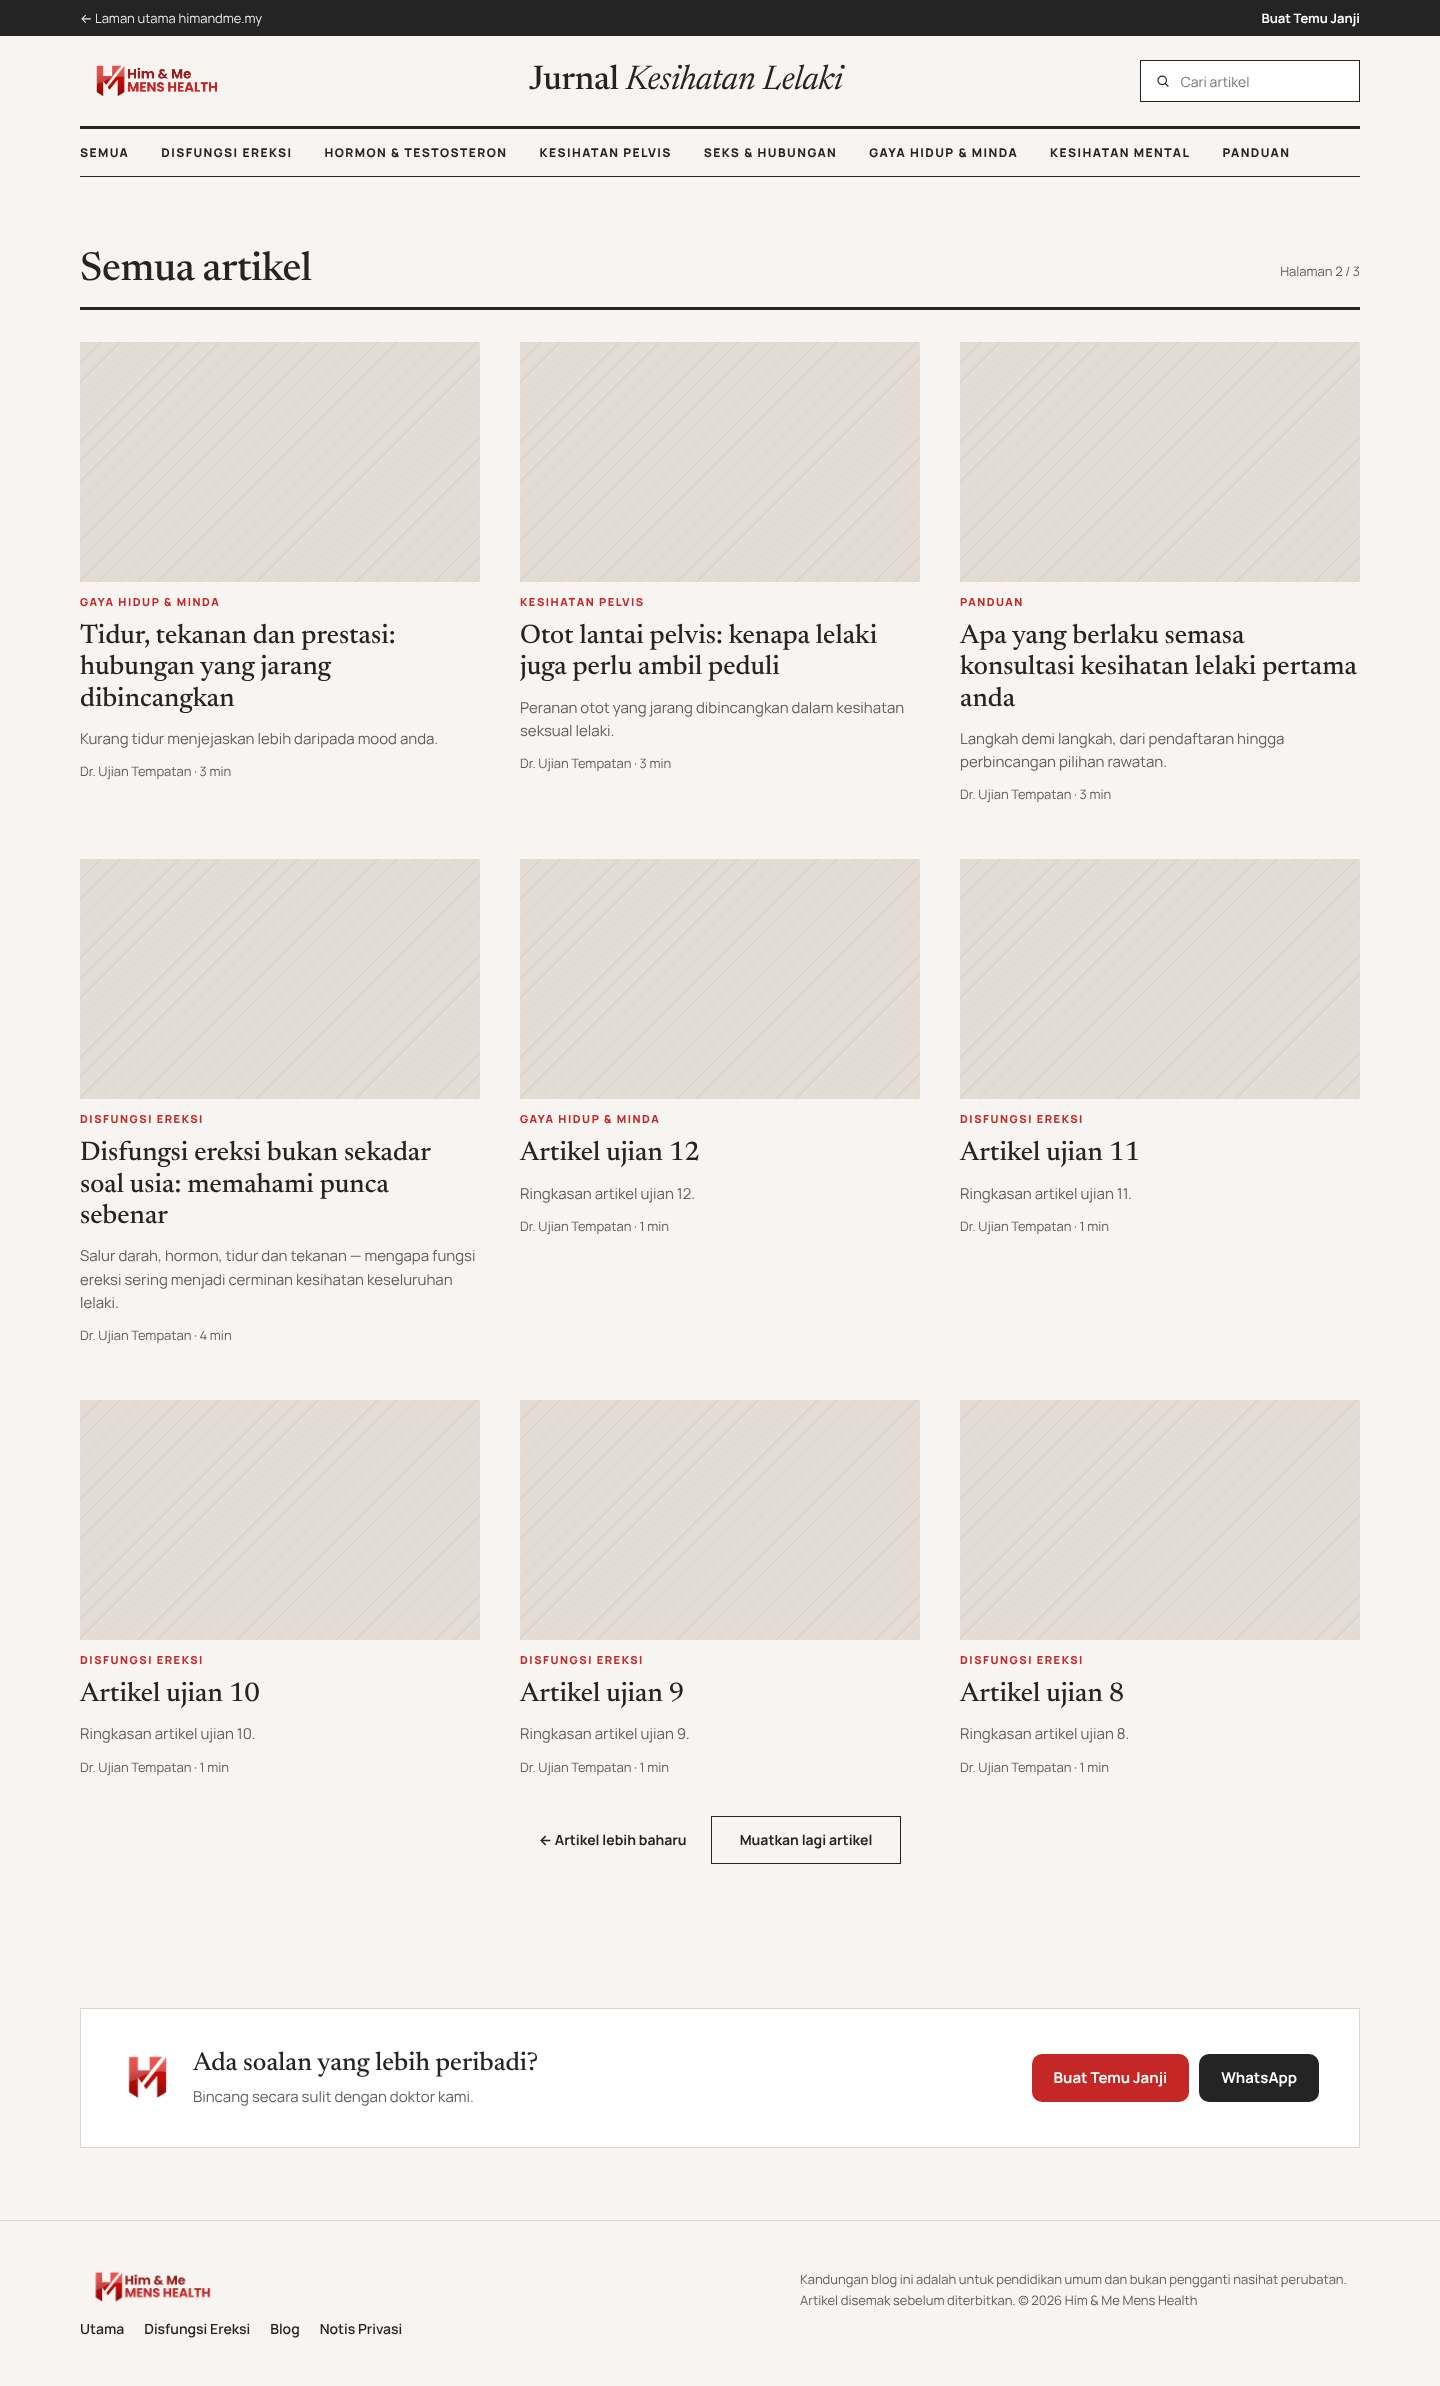
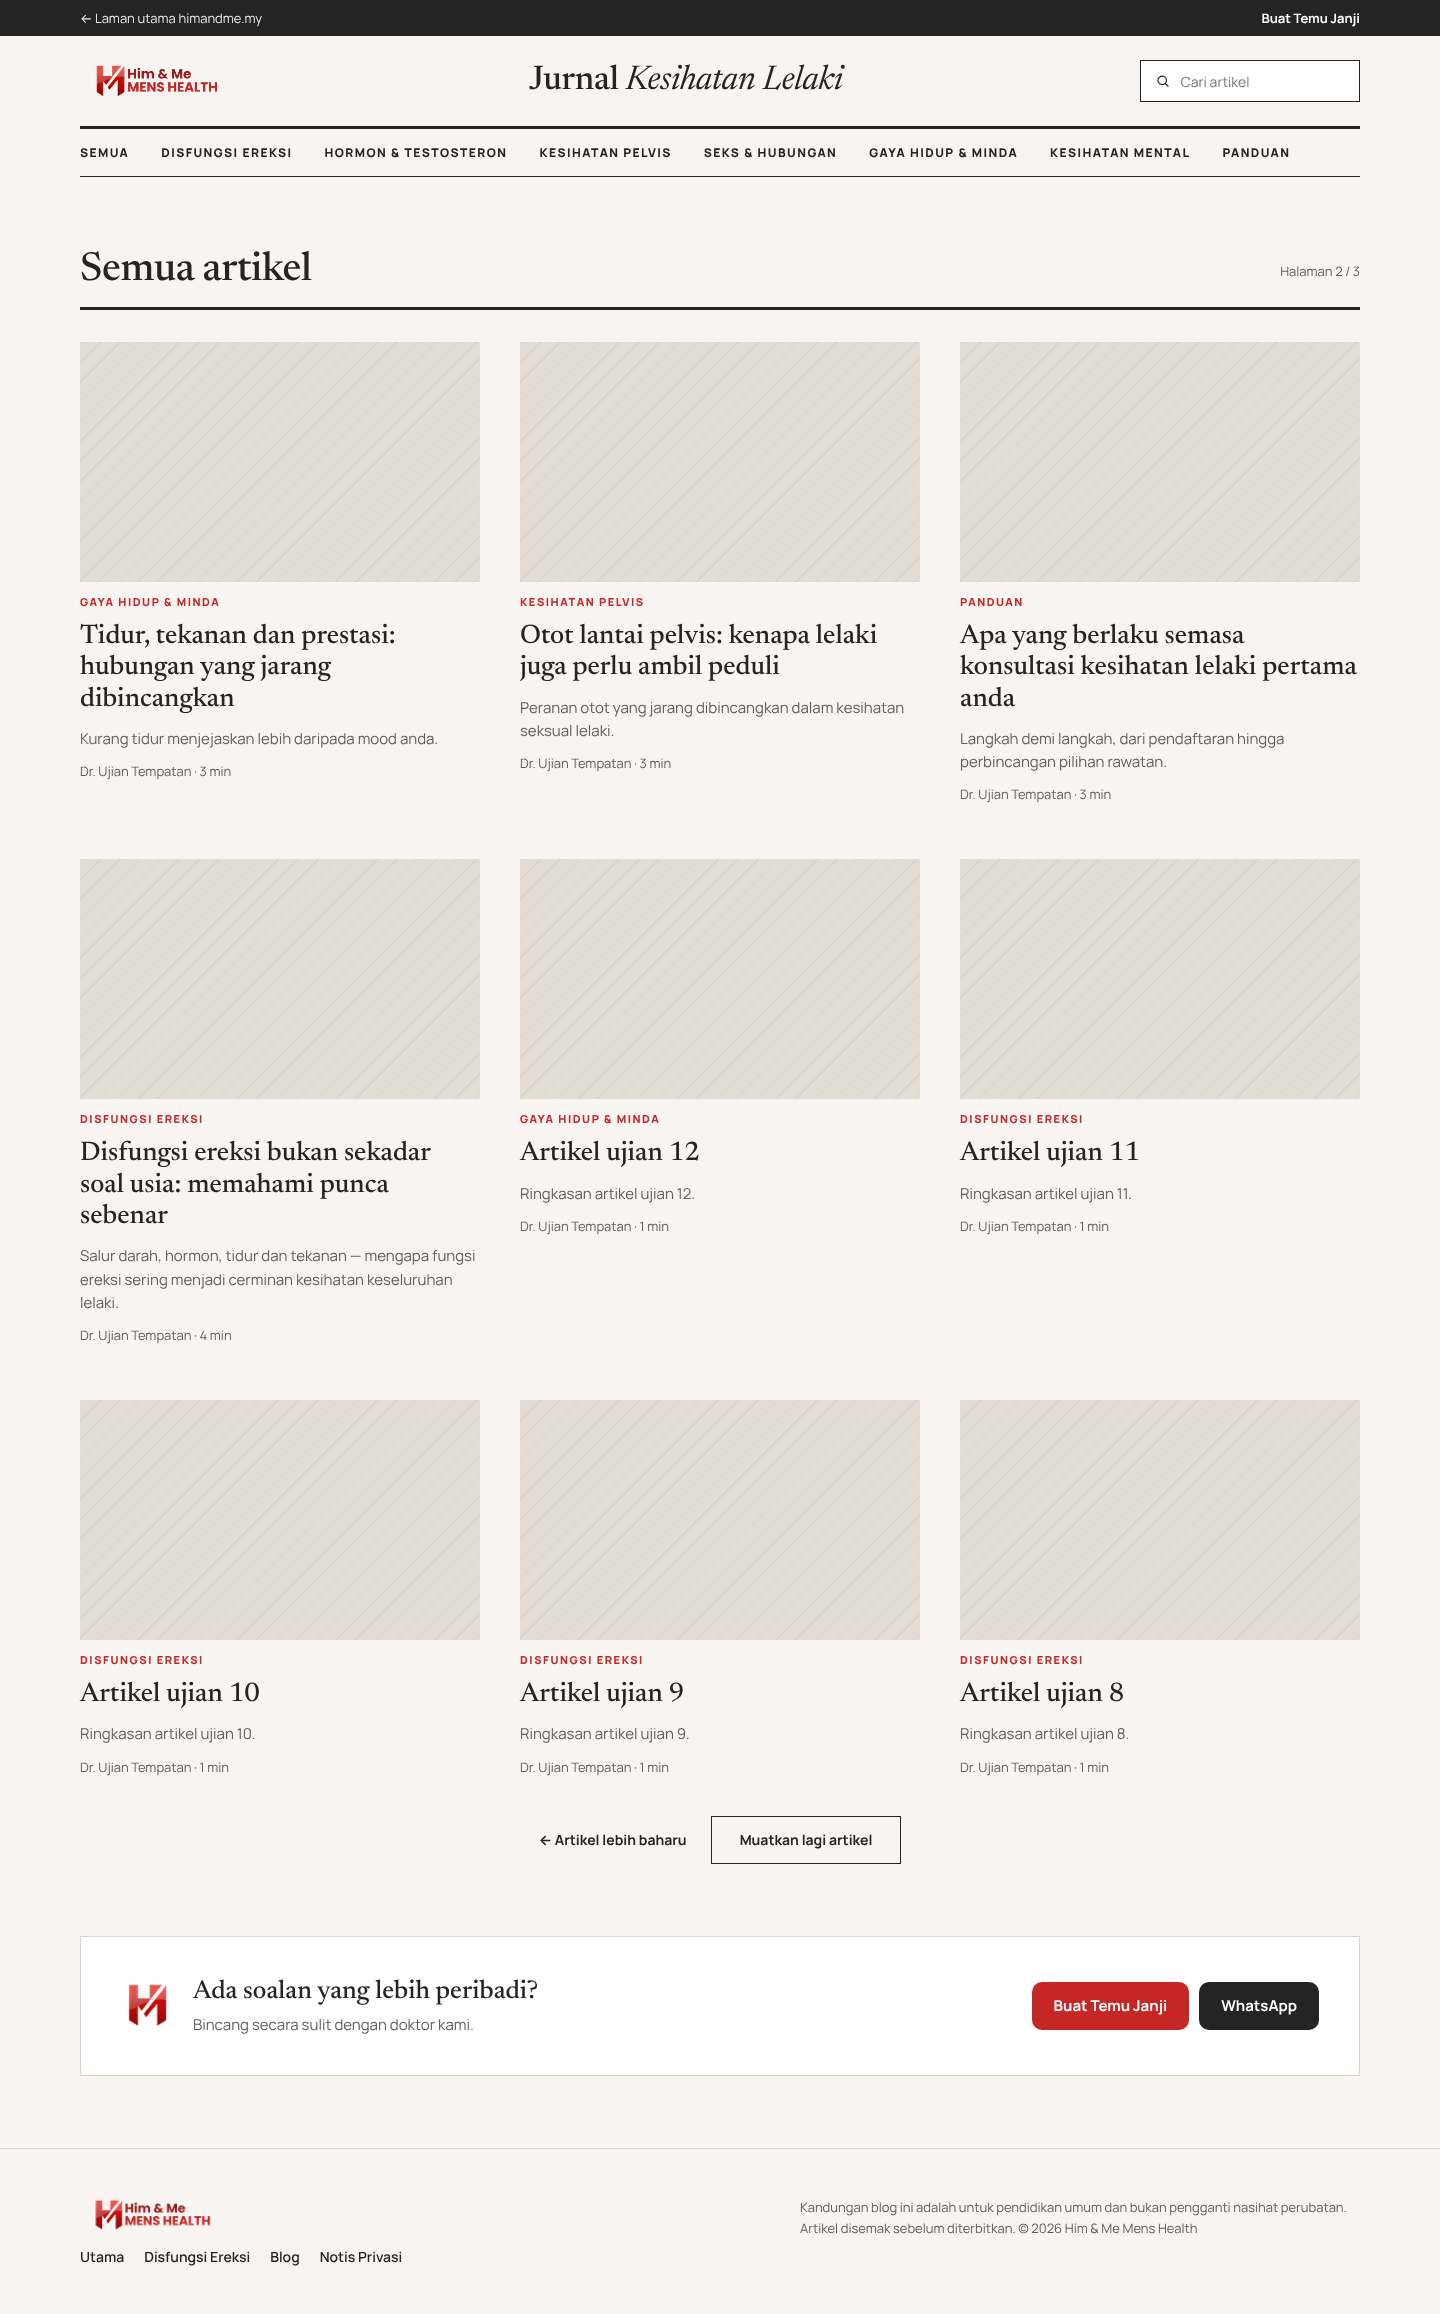
Topic pages: no blank band when a topic has few articles
- Page navigation row is rendered only when there is another page (and
  removed by the script once "Muatkan lagi" reaches the last page).
- Consultation box directly after the article list: one section gap
  (72px desktop, 48px phone) instead of two paddings.
- Stage 5 test B8; screenshots; report notes on the spacing and on the
  article page (Stage 1 scaffold until Stage 6).

Claude-Session: https://claude.ai/code/session_01U2VADpihLRmBJD5br2Zc9P

diff --git a/assets/js/main.js b/assets/js/main.js
@@ -191,7 +191,7 @@
       items.forEach((el) => feed.appendChild(document.importNode(el, true)));
       if (first) { const added = feed.querySelector(`[href="${first.getAttribute('href')}"]`); if (added) added.focus({ preventScroll: true }); }
       const next = doc.querySelector('[data-hm-more]');
-      if (next) { more.href = next.href; more.removeAttribute('aria-busy'); } else more.remove();
+      if (next) { more.href = next.href; more.removeAttribute('aria-busy'); } else { const nav = more.parentElement; more.remove(); if (nav && !nav.children.length) nav.remove(); }
     } catch (err) {
       window.location.href = more.href; // fall back to the normal page
     }

diff --git a/assets/css/pages/blog.css b/assets/css/pages/blog.css
@@ -94,6 +94,8 @@
 
 /* Consultation prompt */
 .hm-bcta-wrap { padding-top: 72px; padding-bottom: 72px; }
+/* Directly after the article list (same background): one section gap, not two, so short topics don't leave a blank band */
+.hm-feed-wrap + .hm-bcta-wrap { padding-top: 0; }
 .hm-bcta { background: var(--hm-white); border: 1px solid var(--hm-rule-warm); padding: 40px; display: flex; flex-wrap: wrap; gap: 24px; align-items: center; justify-content: space-between; }
 .hm-bcta__text { display: flex; gap: 20px; align-items: center; flex: 1 1 320px; }
 .hm-bcta__mark { width: 52px; height: 52px; flex-shrink: 0; }

diff --git a/docs/STAGE-5-REPORT.md b/docs/STAGE-5-REPORT.md
@@ -9,7 +9,7 @@
 |---|---|
 | `npm test`: build + content-block guard (94 templates) + GScan 6.7.0 `--v6` | ✅ 0 errors, 0 warnings |
 | Ghost Admin upload check | ✅ 0 errors, 0 warnings |
-| `test/stage5/run.mjs`: blog, incl. the approved refinements | ✅ **20 / 20** |
+| `test/stage5/run.mjs`: blog, incl. the approved refinements | ✅ **21 / 21** |
 | `test/stage4/run.mjs`: ED page, offer, Notis Privasi, email | ✅ **39 / 39** |
 | `test/stage3/run.mjs`: homepage | ✅ **12 / 12** |
 | `test/stage2/run.mjs`: site chrome | ✅ **23 / 23** |
@@ -63,6 +63,22 @@ Where each area's data comes from is documented in the README ("Blog (Stage 5)")
 - **Stage 2 S3:** escapes the `&` in "Hormon & Testosteron".
 - **Test data:** the local data has 13 demo articles using the board's titles and summaries. Their body text is neutral placeholder text. All seven categories are in the category bar. This is test data only; the launch seed has no articles.
 
+## Review follow-up (7 Nov 2026)
+
+**Topic pages with few articles (spacing only, no redesign).** On Hormon & Testosteron (2 articles) there was 184px of empty space between the last card and the consultation box. Two causes:
+- An empty page-navigation row was still drawn when there was no other page.
+- The article list and the consultation box each added their own 72px section padding, on the same background.
+
+Now:
+- The navigation row appears only when there is another page. The script also removes it once "Muatkan lagi" has loaded the last page.
+- When the consultation box directly follows the list, it sits one section gap below it: 72px desktop, 48px phone.
+
+The blog home is unchanged: the Panduan band sits between the list and the box. Test **B8** checks this. Screenshots: `full-topic-hormon-desktop.jpg`, `full-topic-hormon-mobile.jpg`.
+
+**Article pages (Stage 6, not started).** `/blog/{slug}/` still renders the Stage 1 verification template: title, "Ditulis dan disemak oleh …" and the raw article body, unstyled.
+- The repeated "Teks contoh untuk ujian susun atur tema, perenggan N…" paragraphs are the **test data's placeholder bodies**, not theme text.
+- Every Stage 5 link (cards, lead, Paling dibaca, guides, search results) points to the article's permanent URL. Stage 6 changes only the template behind that URL; the URLs stay the same.
+
 ## Your Stage 5 decisions: implemented
 
 | # | Decision | What was done |
@@ -86,6 +102,7 @@ Where each area's data comes from is documented in the README ("Blog (Stage 5)")
   - `full-blog-home-desktop`, `-mobile`, `-768`, `-1024`
   - `full-blog-page-2-*`, `full-topic-*`, `full-author-*`
 - **Search:** `search-desktop`, `search-desktop-none`, `search-mobile`, `search-nojs-desktop` (JavaScript off)
+- **Spacing follow-up:** `full-topic-hormon-desktop`, `full-topic-hormon-mobile`
 - **Refinements:** `cats-mobile`, `cats-mobile-scrolled` (short phone labels), `topic-gaya-hidup-desktop`, `topic-gaya-hidup-mobile`
 
 ## Safeguards preserved
